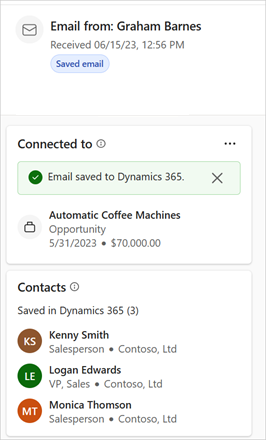
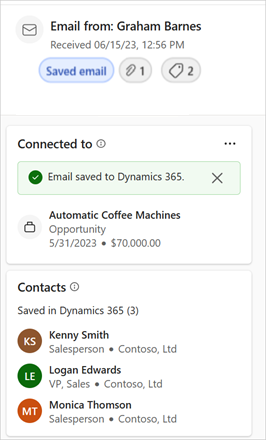
Category: New-Content Workitem: https://dev.azure.com/dynamicscrm/OneCRM/_workitems/edit/4155039 Description: Save attachments from Outlook to CRM

Changed region(s): [[0.1203, 0.1182, 0.5714, 0.2068], [0.6015, 0.1182, 0.7519, 0.2068]]

diff --git a/articles/save-outlook-activities-crm.md b/articles/save-outlook-activities-crm.md
@@ -53,13 +53,17 @@ To sync an email or meeting from Outlook with your CRM, follow these steps:
 
    :::image type="content" source="media/connect-record.png" alt-text="Screenshot showing Connect to a record to save email.":::
 
-1. (Optional) Select and save the attachments that you'd like to store in the CRM. 
+1. (Optional) Select and save the attachments that you'd like to store in the CRM.
+   :::image type="content" source="media/save-attachments.png" alt-text="Screenshot of the save attachment option in the Copilot for Sales side pane."::: 
 
     The attachments are saved to the activity record related to the email or meeting in the CRM. [Unable to save the attachment? Learn why](#attachment-considerations)
 
 1. Select **Save**.
 
-    The email or meeting is connected to the selected record and saved in the CRM. The **Connected to** card shows the connected record and its type.
+   The email or meeting is connected to the selected record and saved in the CRM.
+    - The Connected to card shows the connected record and its type.
+    - The attachment icon shows the number of attachments saved to the CRM.
+    
 
    :::image type="content" source="media/saved-email.png" alt-text="Screenshot showing email saved to CRM.":::
 
